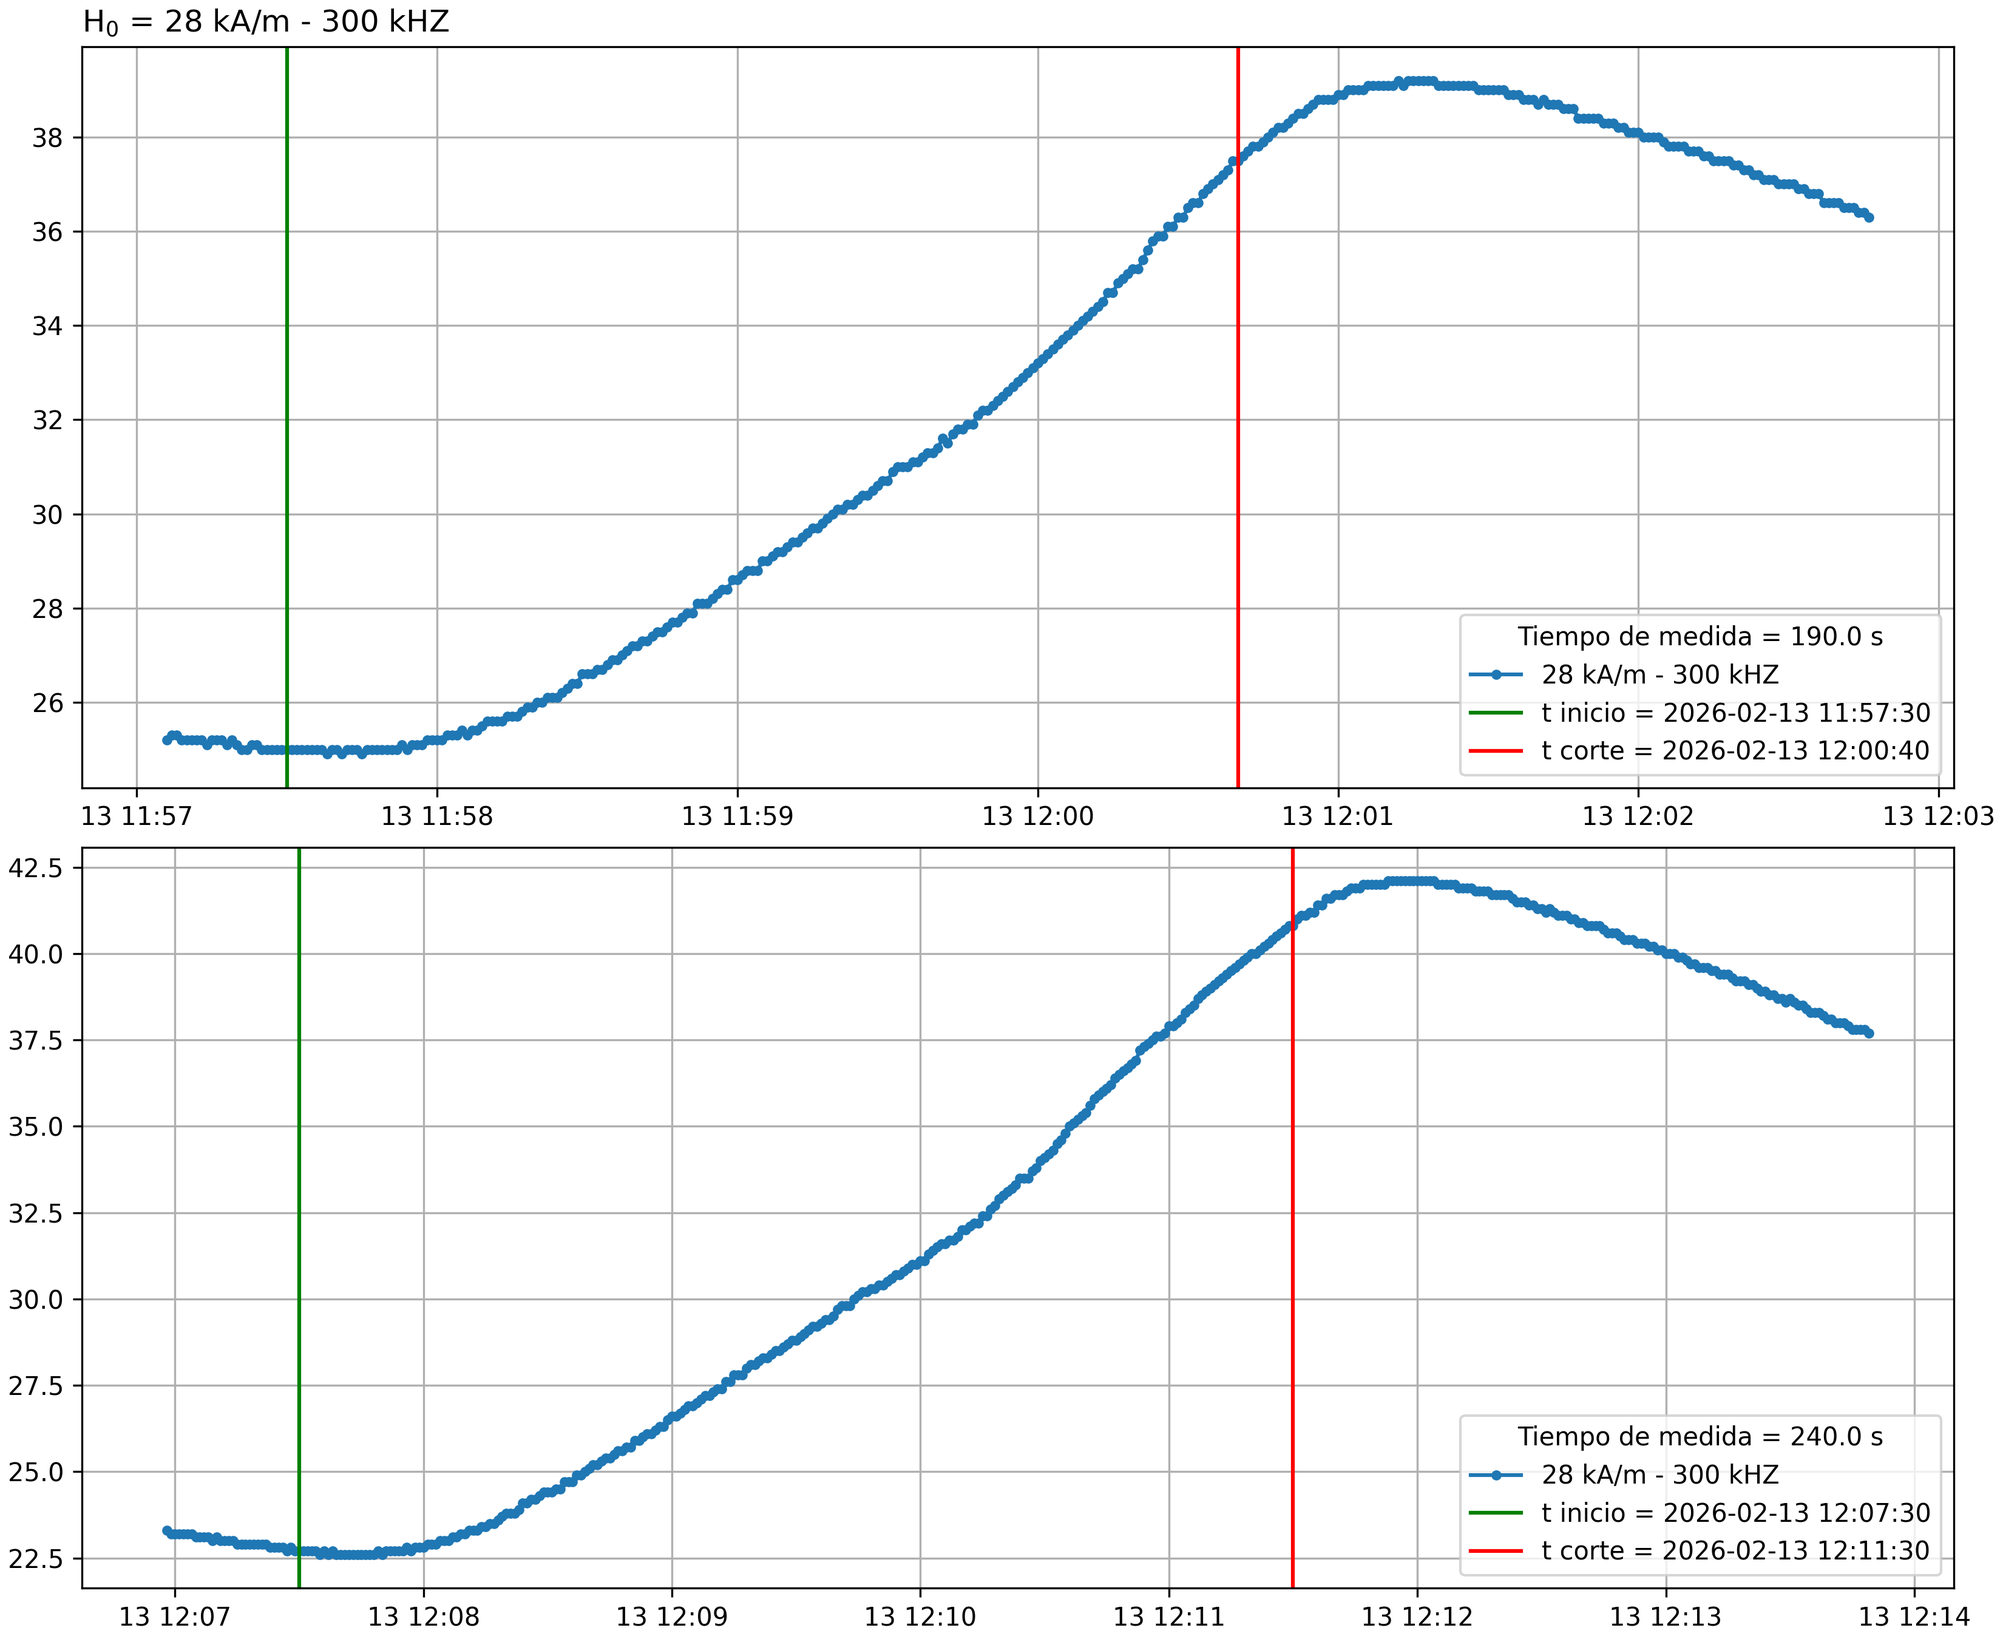
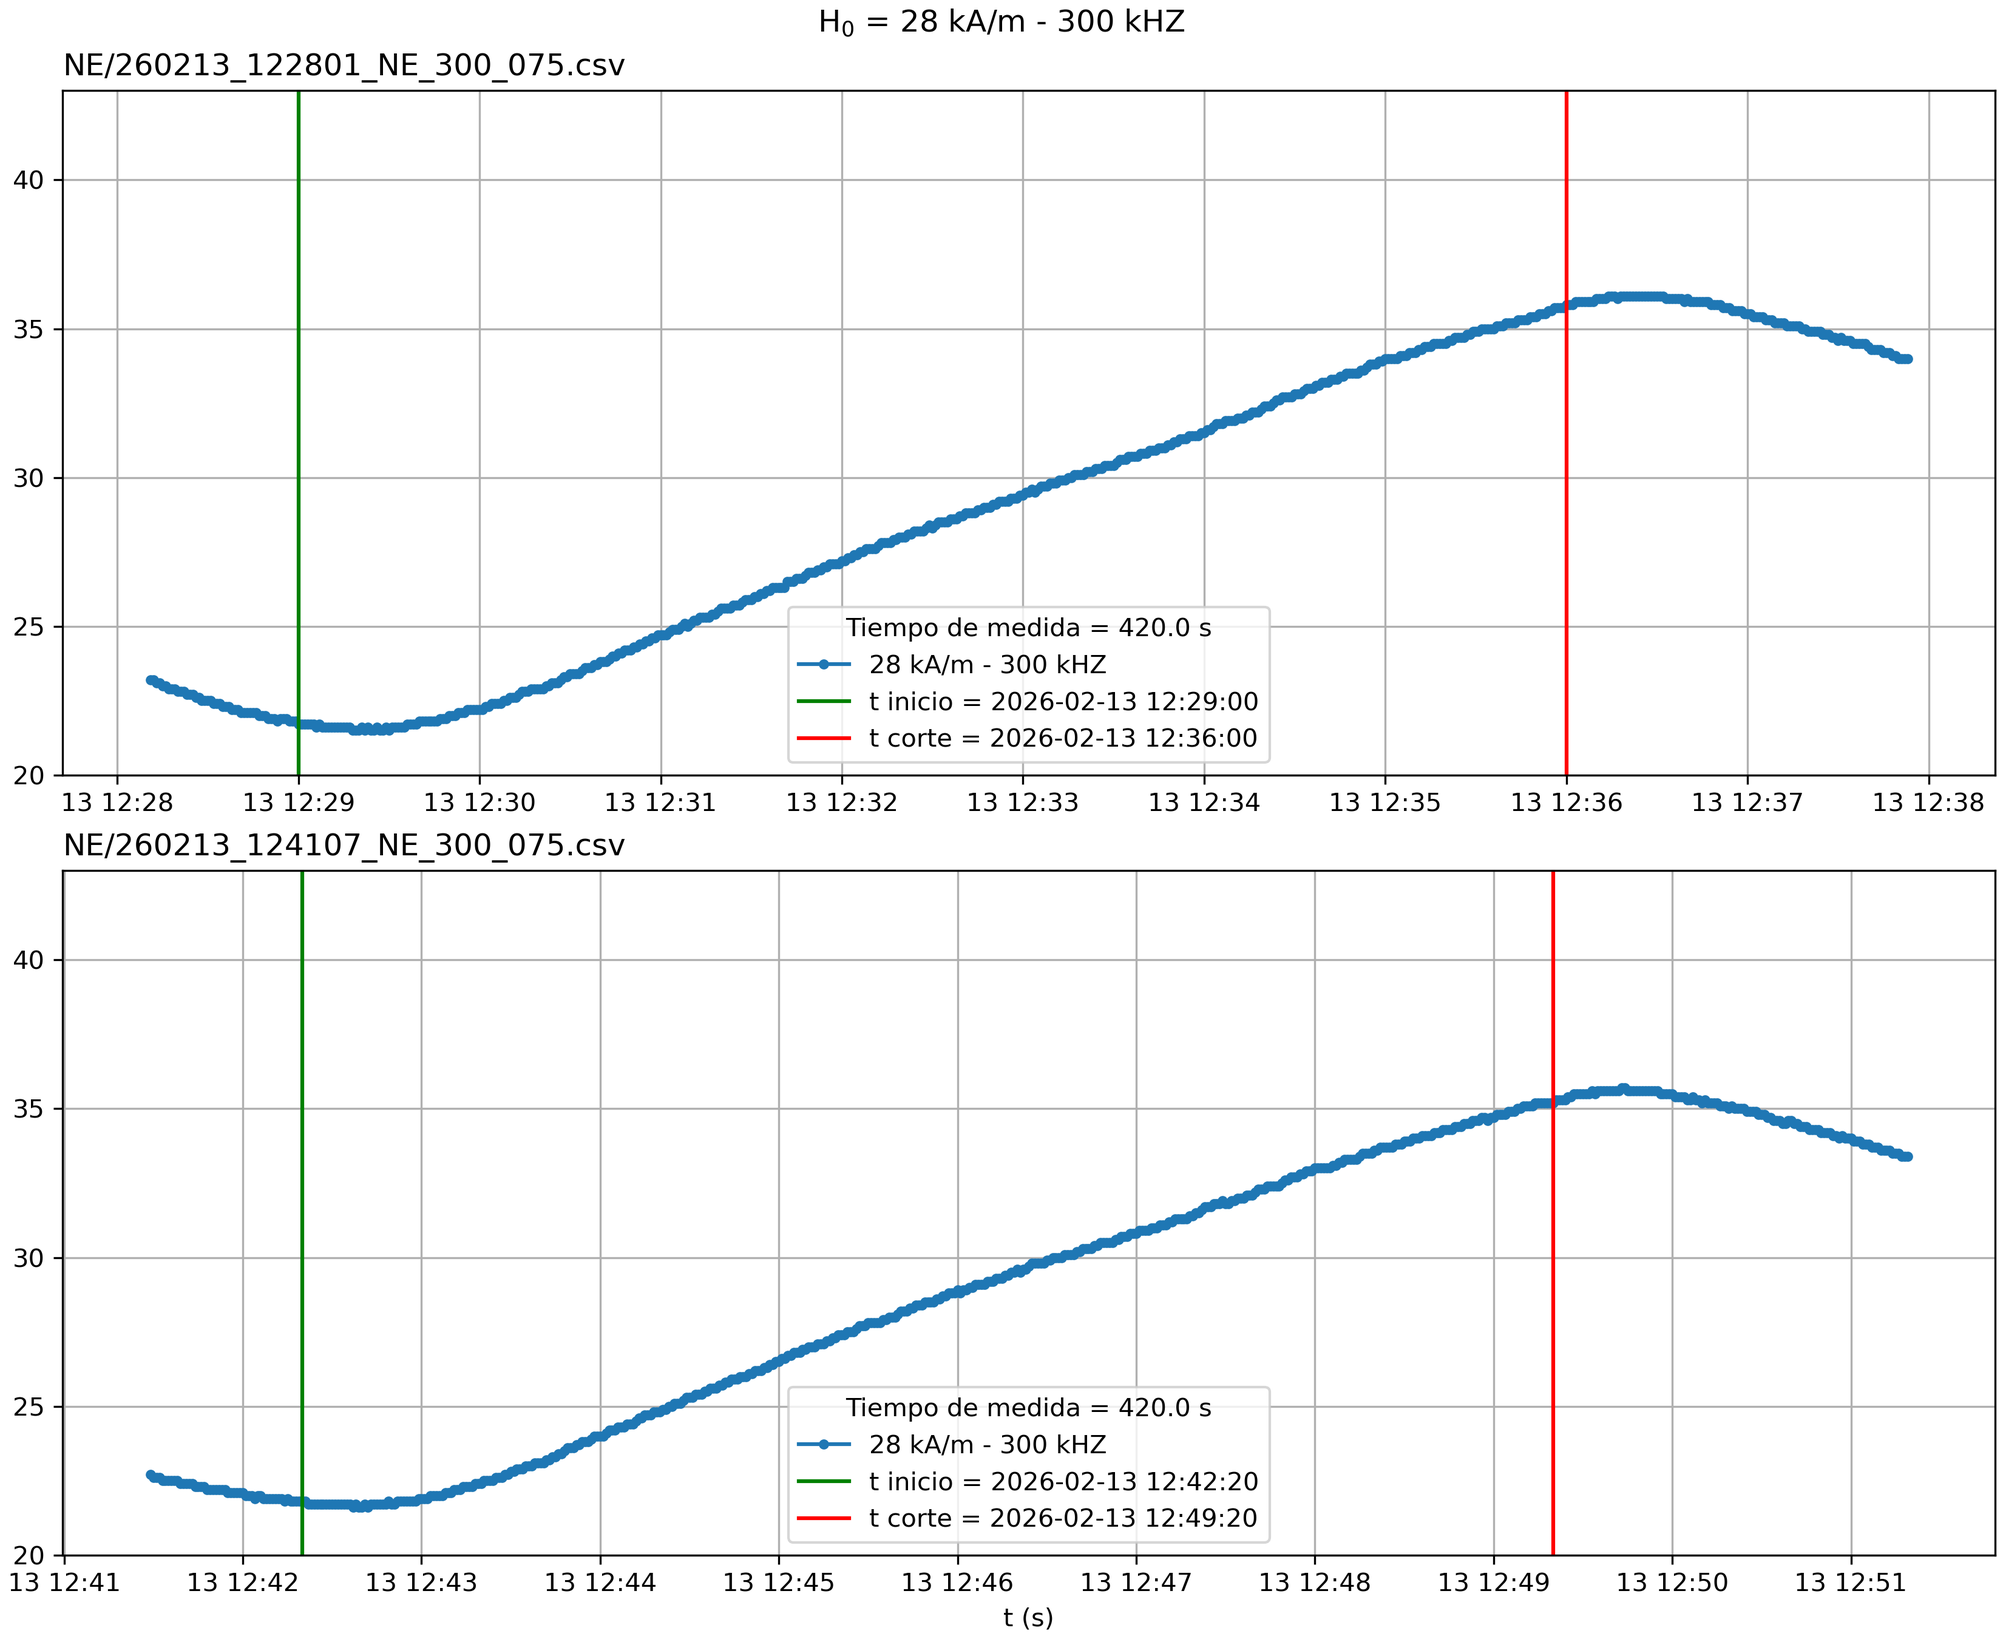
Templogs listos para comparar

diff --git a/CSAR.py b/CSAR.py
@@ -1,16 +1,18 @@
-#%% CSAR NF
-'''
-Rutina para leer .csv del sensor Rugged y calcular dT/dt 
-en la Temperatura de Equilibrio 
-'''
+#%% CSAR NE & NF 260203
+#%% ===================== IMPORTS =====================
+
 import os
-import numpy as np
-import pandas as pd
-import matplotlib.pyplot as plt 
 from glob import glob
 from datetime import datetime
+
+import numpy as np
+import pandas as pd
+import matplotlib.pyplot as plt
+import matplotlib.dates as mdates
+
 from uncertainties import ufloat, unumpy
 from scipy.optimize import curve_fit
+
 #%% Lector Templog
 def lector_templog(path):
     '''
@@ -54,14 +56,18 @@ plt.ylim(23.5,24.5)
 plt.grid()      
 plt.title('Agua - 300 kHz - 57 kA/m')
 plt.show()
-#%%
 
-#%%
+#%% NE
 paths_NE_300_150=glob('**/*NE_300_150.csv', recursive=True)
 paths_NE_300_125=glob('**/*NE_300_125.csv', recursive=True)
 paths_NE_300_100=glob('**/*NE_300_100.csv', recursive=True)
 paths_NE_300_075=glob('**/*NE_300_075.csv', recursive=True)
 paths_NE_300_050=glob('**/*NE_300_050.csv', recursive=True)
+paths_NE = [paths_NE_300_150,paths_NE_300_125,paths_NE_300_100,paths_NE_300_075,paths_NE_300_050]
+for p in paths_NE:
+    p.sort()
+
+paths_NE=np.array(paths_NE).flatten()
 
 t_NE_300_150_1,T_NE_300_150_1,_=lector_templog(paths_NE_300_150[0])
 t_NE_300_150_2,T_NE_300_150_2,_=lector_templog(paths_NE_300_150[1])
@@ -102,8 +108,8 @@ t_off = [datetime(2026, 2, 13, 11, 34, 20), datetime(2026, 2, 13, 11, 43, 50),
          datetime(2026, 2, 13, 13, 7, 30), datetime(2026, 2, 13, 14, 51, 10)]
 delta_t = [(off-on).total_seconds() for on, off in zip(t_on, t_off)]
 
-titulos=[57,47,38,28,19]
-for i,e in enumerate(titulos):  
+titulos=[57,57,47,47,38,38,28,28,19,19]
+for i in range(0,len(titulos),2):  
     fig,(ax,ax2)=plt.subplots(2,1,figsize=(11,9),constrained_layout=True)
     ax.plot(tiempos[i],temperaturas[i],'.-',label=f'{titulos[i]} kA/m - 300 kHZ')
     ax.axvline(x=t_on[i], color='g', ls='-',label=f't inicio = {t_on[i]}')
@@ -117,9 +123,15 @@ for i,e in enumerate(titulos):
     ax2.legend(title=f'Tiempo de medida = {delta_t[i+1]} s')
     for a in (ax,ax2):
         a.grid()
+        a.set_ylim(20,43)
+        
+    ax.set_title(paths_NE[i],loc='left')
+    ax2.set_title(paths_NE[i+1],loc='left')
+    ax2.set_xlabel('t (s)')  
+    
+    plt.suptitle(f'H$_0$ = {titulos[i]} kA/m - 300 kHZ')   
     plt.savefig(f'NE_T_vs_t_{titulos[i]}kAm_300kHz.png', dpi=300)
     plt.show()    
-    # ax.set_xlabel('t (s)')  
 
 t_NE_300_150_1 = np.array([(t-t_NE_300_150_1[0]).total_seconds() for t in t_NE_300_150_1])
 t_NE_300_150_2 = np.array([(t-t_NE_300_150_2[0]).total_seconds() for t in t_NE_300_150_2])
@@ -132,7 +144,7 @@ t_NE_300_075_2 = np.array([(t-t_NE_300_075_2[0]).total_seconds() for t in t_NE_3
 t_NE_300_050_1 = np.array([(t-t_NE_300_050_1[0]).total_seconds() for t in t_NE_300_050_1])
 t_NE_300_050_2 = np.array([(t-t_NE_300_050_2[0]).total_seconds() for t in t_NE_300_050_2])
 
-fig,(ax,ax1,ax2,ax3,ax4)=plt.subplots(5,1,figsize=(10,10), constrained_layout=True,sharex=True)
+fig,(ax,ax1,ax2,ax3,ax4)=plt.subplots(5,1,figsize=(10,10), constrained_layout=True,sharex=True,sharey=True)
 
 ax.set_title('57 kA/m',loc='left')
 ax1.set_title('47 kA/m',loc='left')
@@ -140,79 +152,91 @@ ax2.set_title('38 kA/m',loc='left')
 ax3.set_title('28 kA/m',loc='left')
 ax4.set_title('19 kA/m',loc='left')
 
-ax.plot(t_NE_300_150_1,T_NE_300_150_1,'.-',label='300_150')
-ax.plot(t_NE_300_150_2,T_NE_300_150_2,'.-',label='300_150')
-ax1.plot(t_NE_300_125_1,T_NE_300_125_1,'.-',label='300_125')
-ax1.plot(t_NE_300_125_2,T_NE_300_125_2,'.-',label='300_155')
-ax2.plot(t_NE_300_100_1,T_NE_300_100_1,'.-',label='300_100')
-ax2.plot(t_NE_300_100_2,T_NE_300_100_2,'.-',label='300_100')
-ax3.plot(t_NE_300_075_1,T_NE_300_075_1,'.-',label='300_075')
-ax3.plot(t_NE_300_075_2,T_NE_300_075_2,'.-',label='300_075')
-ax4.plot(t_NE_300_050_1,T_NE_300_050_1,'.-',label='300_050')
-ax4.plot(t_NE_300_050_2,T_NE_300_050_2,'.-',label='300_050')
+ax.plot(t_NE_300_150_1,T_NE_300_150_1,'.-',label=paths_NE[0])
+ax.plot(t_NE_300_150_2,T_NE_300_150_2,'.-',label=paths_NE[1])
+ax1.plot(t_NE_300_125_1,T_NE_300_125_1,'.-',label=paths_NE[2])
+ax1.plot(t_NE_300_125_2,T_NE_300_125_2,'.-',label=paths_NE[3])
+ax2.plot(t_NE_300_100_1,T_NE_300_100_1,'.-',label=paths_NE[4])
+ax2.plot(t_NE_300_100_2,T_NE_300_100_2,'.-',label=paths_NE[5])
+ax3.plot(t_NE_300_075_1,T_NE_300_075_1,'.-',label=paths_NE[6])
+ax3.plot(t_NE_300_075_2,T_NE_300_075_2,'.-',label=paths_NE[7])
+ax4.plot(t_NE_300_050_1,T_NE_300_050_1,'.-',label=paths_NE[8])
+ax4.plot(t_NE_300_050_2,T_NE_300_050_2,'.-',label=paths_NE[9])
 for a in (ax,ax1,ax2,ax3,ax4):
     a.grid()
     a.legend()
     a.set_xlim(0,)
+    a.set_ylim(20,43)
+ax4.set_xlabel('t (s)')   
 plt.suptitle('NE@citrico - coprecpitacion',fontsize=16)
 plt.savefig('NE_T_vs_t_all.png', dpi=300)
 
 plt.show()
-#%% =====================   NF   =====================
+#%% ===================== NF   =====================
 
-# Paths explícitos en subdirectorio NF
-paths_NF = [
-'NF/260213_150142_NF_300_150.csv',
-'NF/260213_151105_NF_300_150.csv',
-'NF/260213_151938_NF_300_125.csv',
-'NF/260213_152904_NF_300_125.csv',
-'NF/260213_153615_NF_300_100.csv',
-'NF/260213_154221_NF_300_100.csv',
-'NF/260213_155151_NF_300_075.csv',
-'NF/260213_155930_NF_300_075.csv',
-'NF/260213_160717_NF_300_050.csv',
-'NF/260213_161916_NF_300_050.csv']
+paths_NF_300_150=glob('**/*NF_300_150.csv', recursive=True)
+paths_NF_300_125=glob('**/*NF_300_125.csv', recursive=True)
+paths_NF_300_100=glob('**/*NF_300_100.csv', recursive=True)
+paths_NF_300_075=glob('**/*NF_300_075.csv', recursive=True)
+paths_NF_300_050=glob('**/*NF_300_050.csv', recursive=True)
+
+paths_NF = [paths_NF_300_150,paths_NF_300_125,paths_NF_300_100,paths_NF_300_075,paths_NF_300_050]
+for p in paths_NF:
+    p.sort()
+
+paths_NF=np.array(paths_NF).flatten()
+
 # Cargo datos
-t_NF_1,T_NF_1,_ = lector_templog(paths_NF[0])
-t_NF_2,T_NF_2,_ = lector_templog(paths_NF[1])
-t_NF_3,T_NF_3,_ = lector_templog(paths_NF[2])
-t_NF_4,T_NF_4,_ = lector_templog(paths_NF[3])
-t_NF_5,T_NF_5,_ = lector_templog(paths_NF[4])
-t_NF_6,T_NF_6,_ = lector_templog(paths_NF[5])
-t_NF_7,T_NF_7,_ = lector_templog(paths_NF[6])
-t_NF_8,T_NF_8,_ = lector_templog(paths_NF[7])
-t_NF_9,T_NF_9,_ = lector_templog(paths_NF[8])
-t_NF_10,T_NF_10,_ = lector_templog(paths_NF[9])
 
-tiempos_NF = [t_NF_1,t_NF_2,t_NF_3,t_NF_4,t_NF_5,
-              t_NF_6,t_NF_7,t_NF_8,t_NF_9,t_NF_10]
+t_NF_300_150_1,T_NF_300_150_1,_=lector_templog(paths_NF_300_150[0])
+t_NF_300_150_2,T_NF_300_150_2,_=lector_templog(paths_NF_300_150[1])
 
-temperaturas_NF = [T_NF_1,T_NF_2,T_NF_3,T_NF_4,T_NF_5,
-                   T_NF_6,T_NF_7,T_NF_8,T_NF_9,T_NF_10]
-# Nuevos horarios
-t_on_NF = [
-datetime(2026,2,13,15,2,22),datetime(2026,2,13,15,11,30),
+t_NF_300_125_1,T_NF_300_125_1,_=lector_templog(paths_NF_300_125[0])
+t_NF_300_125_2,T_NF_300_125_2,_=lector_templog(paths_NF_300_125[1])
+
+t_NF_300_100_1,T_NF_300_100_1,_=lector_templog(paths_NF_300_100[0])
+t_NF_300_100_2,T_NF_300_100_2,_=lector_templog(paths_NF_300_100[1])
+
+t_NF_300_075_1,T_NF_300_075_1,_=lector_templog(paths_NF_300_075[0])
+t_NF_300_075_2,T_NF_300_075_2,_=lector_templog(paths_NF_300_075[1])
+
+t_NF_300_050_1,T_NF_300_050_1,_=lector_templog(paths_NF_300_050[0])
+t_NF_300_050_2,T_NF_300_050_2,_=lector_templog(paths_NF_300_050[1])
+
+tiempos_NF=[t_NF_300_150_1,t_NF_300_150_2,
+         t_NF_300_125_1,t_NF_300_125_2,
+         t_NF_300_100_1,t_NF_300_100_2,
+         t_NF_300_075_1,t_NF_300_075_2,
+         t_NF_300_050_1,t_NF_300_050_2]
+
+temperaturas_NF=[T_NF_300_150_1,T_NF_300_150_2,
+             T_NF_300_125_1,T_NF_300_125_2,
+             T_NF_300_100_1,T_NF_300_100_2,
+             T_NF_300_075_1,T_NF_300_075_2,
+             T_NF_300_050_1,T_NF_300_050_2]
+
+# Horarios on/off
+t_on_NF = [datetime(2026,2,13,15,2,22),datetime(2026,2,13,15,11,30),
 datetime(2026,2,13,15,20,10),datetime(2026,2,13,15,29,30),
 datetime(2026,2,13,15,36,50),datetime(2026,2,13,15,43,00),
 datetime(2026,2,13,15,52,23),datetime(2026,2,13,16,0,30),
-datetime(2026,2,13,16,8,00),datetime(2026,2,13,16,20,00)]
+datetime(2026,2,13,16,8,0),datetime(2026,2,13,16,20,0)]
 
 t_off_NF = [datetime(2026,2,13,15,3,22),datetime(2026,2,13,15,13,50),
 datetime(2026,2,13,15,21,10),datetime(2026,2,13,15,30,30),
 datetime(2026,2,13,15,38,10),datetime(2026,2,13,15,44,15),
 datetime(2026,2,13,15,54,30),datetime(2026,2,13,16,2,30),
-datetime(2026,2,13,16,16,00),datetime(2026,2,13,16,29,00)]
-
+datetime(2026,2,13,16,16,0),datetime(2026,2,13,16,29,0)]
+#%%
 delta_t_NF = [(off-on).total_seconds() for on,off in zip(t_on_NF,t_off_NF)]
-titulos_NF = [57,47,38,27,19]
+titulos_NF = [57,57,47,47,38,38,28,28,19,19]
+import matplotlib.dates as mdates
 
-
-for i,e in enumerate(titulos_NF):  
+for i in range(0,len(titulos_NF),2):  
     fig,(ax,ax2)=plt.subplots(2,1,figsize=(11,9),constrained_layout=True)
     ax.plot(tiempos_NF[i],temperaturas_NF[i],'.-',label=f'{titulos_NF[i]} kA/m - 300 kHZ')
     ax.axvline(x=t_on_NF[i], color='g', ls='-',label=f't inicio = {t_on_NF[i]}')
     ax.axvline(x=t_off_NF[i], color='r', ls='-',label=f't corte = {t_off_NF[i]}')
-    ax.set_title(f'H$_0$ = {titulos_NF[i]} kA/m - 300 kHZ',loc='left')
     ax2.plot(tiempos_NF[i+1],temperaturas_NF[i+1],'.-',label=f'{titulos_NF[i+1]} kA/m - 300 kHZ')
     ax2.axvline(x=t_on_NF[i+1], color='g', ls='-',label=f't inicio = {t_on_NF[i+1]}')
     ax2.axvline(x=t_off_NF[i+1], color='r', ls='-',label=f't corte = {t_off_NF[i+1]}')
@@ -221,67 +245,66 @@ for i,e in enumerate(titulos_NF):
     ax2.legend(title=f'Tiempo de medida = {delta_t_NF[i+1]} s')
     for a in (ax,ax2):
         a.grid()
+        a.xaxis.set_major_formatter(mdates.DateFormatter('%H:%M:%S'))
+        
+    ax.set_title(paths_NF[i],loc='left')
+    ax2.set_title(paths_NF[i+1],loc='left')
+    
+    plt.suptitle(f'H$_0$ = {titulos_NF[i]} kA/m - 300 kHZ')
     plt.savefig(f'NF_T_vs_t_{titulos_NF[i]}kAm_300kHz.png', dpi=300)
     plt.show()    
-    # ax.set_xlabel('t 
+    
 
-    # plt.plot(tiempos_NF[i],temperaturas_NF[i],'.-',label=titulos_NF[i])
-    # plt.axvline(x=t_on_NF[i],color='g',label=f't inicio = {t_on_NF[i]}')
-    # plt.axvline(x=t_off_NF[i],color='r',label=f't corte = {t_off_NF[i]}')
+t_NF_300_150_1 = np.array([(t-t_NF_300_150_1[0]).total_seconds() for t in t_NF_300_150_1])
+t_NF_300_150_2 = np.array([(t-t_NF_300_150_2[0]).total_seconds() for t in t_NF_300_150_2])
+t_NF_300_125_1 = np.array([(t-t_NF_300_125_1[0]).total_seconds() for t in t_NF_300_125_1])
+t_NF_300_125_2 = np.array([(t-t_NF_300_125_2[0]).total_seconds() for t in t_NF_300_125_2])
+t_NF_300_100_1 = np.array([(t-t_NF_300_100_1[0]).total_seconds() for t in t_NF_300_100_1])
+t_NF_300_100_2 = np.array([(t-t_NF_300_100_2[0]).total_seconds() for t in t_NF_300_100_2])
+t_NF_300_075_1 = np.array([(t-t_NF_300_075_1[0]).total_seconds() for t in t_NF_300_075_1])
+t_NF_300_075_2 = np.array([(t-t_NF_300_075_2[0]).total_seconds() for t in t_NF_300_075_2])
+t_NF_300_050_1 = np.array([(t-t_NF_300_050_1[0]).total_seconds() for t in t_NF_300_050_1])
+t_NF_300_050_2 = np.array([(t-t_NF_300_050_2[0]).total_seconds() for t in t_NF_300_050_2])
+#%%
+fig,(ax,ax1,ax2,ax3,ax4)=plt.subplots(5,1,figsize=(10,10), constrained_layout=True,
+                                      sharex=True,sharey=True)
 
-    # plt.legend(title=f'Tiempo medida = {delta_t_NF[i]} s')
-    # plt.grid()
-    # plt.ylabel('T (°C)')
-    # plt.title(f'NF - {titulos_NF[i]}')
+ax.set_title('57 kA/m',loc='left')
+ax1.set_title('47 kA/m',loc='left')
+ax2.set_title('38 kA/m',loc='left')
+ax3.set_title('28 kA/m',loc='left')
+ax4.set_title('19 kA/m',loc='left')
 
-    # plt.savefig(f'NF_T_vs_t_{i+1}.png',dpi=300)
-    # plt.show()
-
-t_NF_1 = np.array([(t-t_NF_1[0]).total_seconds() for t in t_NF_1])
-t_NF_2 = np.array([(t-t_NF_2[0]).total_seconds() for t in t_NF_2])
-t_NF_3 = np.array([(t-t_NF_3[0]).total_seconds() for t in t_NF_3])
-t_NF_4 = np.array([(t-t_NF_4[0]).total_seconds() for t in t_NF_4])
-t_NF_5 = np.array([(t-t_NF_5[0]).total_seconds() for t in t_NF_5])
-t_NF_6 = np.array([(t-t_NF_6[0]).total_seconds() for t in t_NF_6])
-t_NF_7 = np.array([(t-t_NF_7[0]).total_seconds() for t in t_NF_7])
-t_NF_8 = np.array([(t-t_NF_8[0]).total_seconds() for t in t_NF_8])
-t_NF_9 = np.array([(t-t_NF_9[0]).total_seconds() for t in t_NF_9])
-t_NF_10 = np.array([(t-t_NF_10[0]).total_seconds() for t in t_NF_10])
-
-
-fig,axs = plt.subplots(5,1,figsize=(10,12),sharex=True,constrained_layout=True)
-
-axs[0].set_title('300_150',loc='left')
-axs[0].plot(t_NF_1,T_NF_1,'.-')
-axs[0].plot(t_NF_2,T_NF_2,'.-')
-
-axs[1].set_title('300_125',loc='left')
-axs[1].plot(t_NF_3,T_NF_3,'.-')
-axs[1].plot(t_NF_4,T_NF_4,'.-')
-
-axs[2].set_title('300_100',loc='left')
-axs[2].plot(t_NF_5,T_NF_5,'.-')
-axs[2].plot(t_NF_6,T_NF_6,'.-')
-
-axs[3].set_title('300_075',loc='left')
-axs[3].plot(t_NF_7,T_NF_7,'.-')
-axs[3].plot(t_NF_8,T_NF_8,'.-')
-
-axs[4].set_title('300_050',loc='left')
-axs[4].plot(t_NF_9,T_NF_9,'.-')
-axs[4].plot(t_NF_10,T_NF_10,'.-')
-
-for a in axs:
+ax.plot(t_NF_300_150_1,T_NF_300_150_1,'.-',label=paths_NF[0])
+ax.plot(t_NF_300_150_2,T_NF_300_150_2,'.-',label=paths_NF[1])
+ax1.plot(t_NF_300_125_1,T_NF_300_125_1,'.-',label=paths_NF[2])
+ax1.plot(t_NF_300_125_2,T_NF_300_125_2,'.-',label=paths_NF[3])
+ax2.plot(t_NF_300_100_1,T_NF_300_100_1,'.-',label=paths_NF[4])
+ax2.plot(t_NF_300_100_2,T_NF_300_100_2,'.-',label=paths_NF[5])
+ax3.plot(t_NF_300_075_1,T_NF_300_075_1,'.-',label=paths_NF[6])
+ax3.plot(t_NF_300_075_2,T_NF_300_075_2,'.-',label=paths_NF[7])
+ax4.plot(t_NF_300_050_1,T_NF_300_050_1,'.-',label=paths_NF[8])
+ax4.plot(t_NF_300_050_2,T_NF_300_050_2,'.-',label=paths_NF[9])
+for a in (ax,ax1,ax2,ax3,ax4):
     a.grid()
+    a.legend()
     a.set_xlim(0,)
+    #.set_ylim(20,43)
+ax4.set_xlabel('t (s)')    
 
-plt.suptitle('NF@Citrato - reconcentrada',fontsize=16)
-plt.savefig('NF_T_vs_t_all.png',dpi=300)
+plt.suptitle('NF@citrico - coprecpitacion',fontsize=16)
+plt.savefig('NF_T_vs_t_all.png', dpi=300)
+
 plt.show()
+
+
+
+
+
 
 #%%
 
-fig, (ax,ax1,ax2)=plt.subplots(3,1,figsize=(10,8),constrained_layout=True,sharex=True)
+fig, (ax,ax1,ax2)=plt.subplots(3,1,figsize=(10,8),constrained_layout=True,sharex=True,sharey=Tue)
 
 ax.set_title('300 kHz',loc='left')
 
@@ -306,6 +329,7 @@ for a in (ax,ax1,ax2):
     a.grid()
     a.legend()
     a.set_xlim(0,)
+
 plt.suptitle('NE@citrico - coprecipitacion',fontsize=16)
 plt.show()
 
